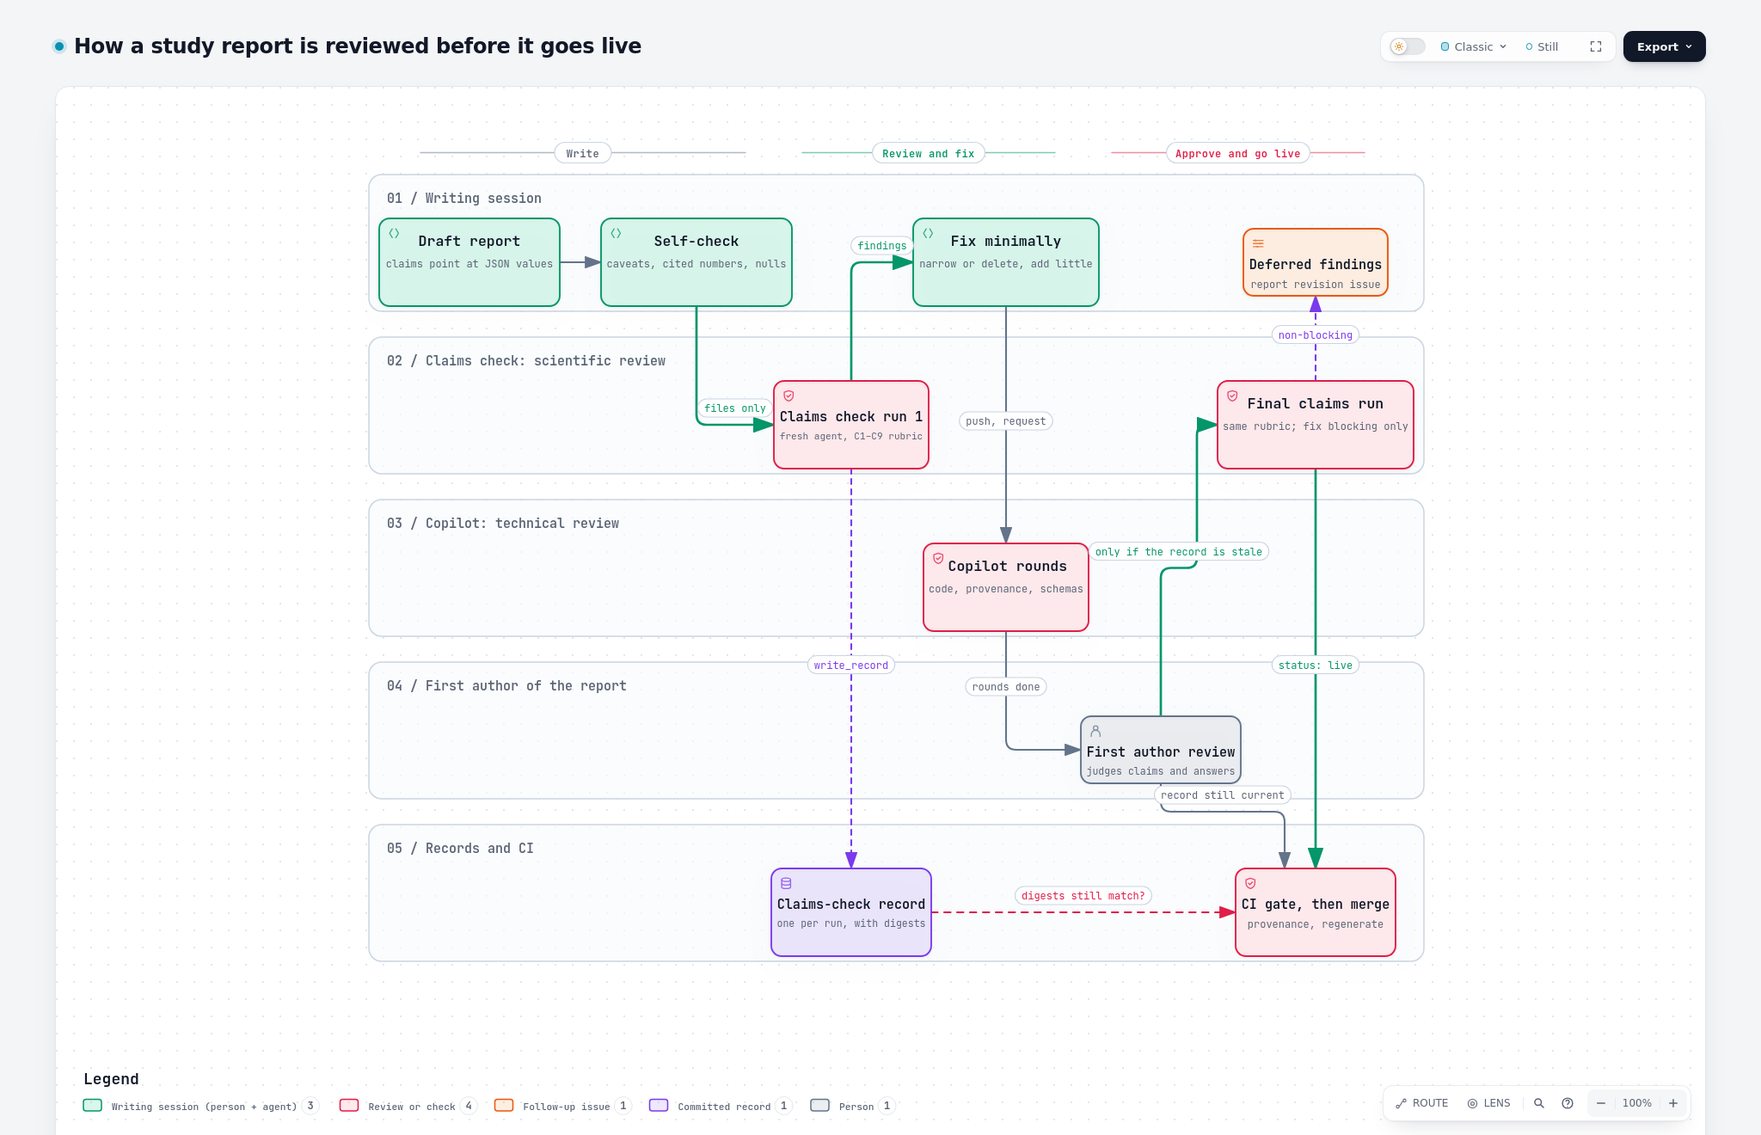
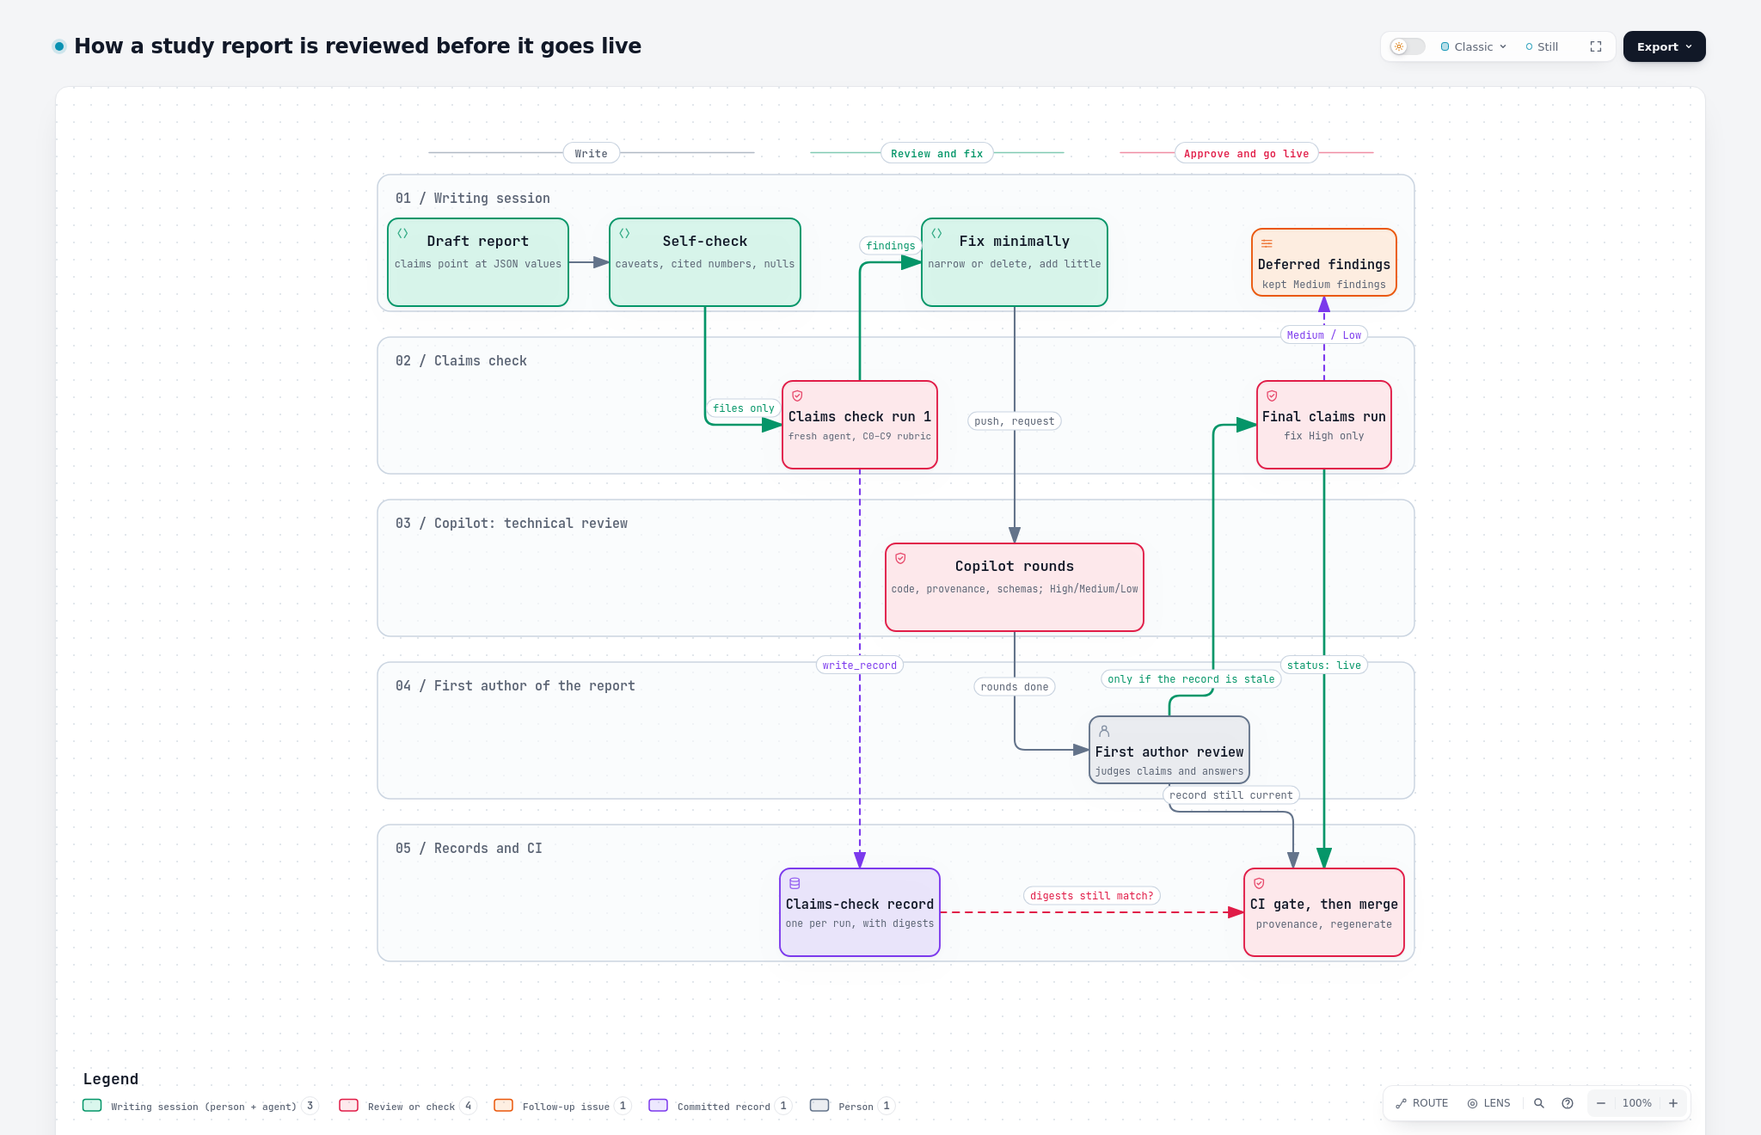
docs(diagrams): report review uses High/Medium/Low and C0-C9; lane renamed back to "Claims check"
Text only, layout unchanged; re-rendered with archify finalize (all gates
pass) and visual-check; smallest node text 7.4 px as before.

Refs AllenNeuralDynamics/aind-dynamic-foraging-bfm-studies#167

diff --git a/docs/diagrams/report-review.html b/docs/diagrams/report-review.html
@@ -5202,7 +5202,7 @@ OTHER DEALINGS IN THE FONT SOFTWARE.
     <!-- Main Diagram -->
     <div class="diagram-container" data-detail-level="read"
          data-preset-badge-editorial-plate="ARCHIFY / PLATE 04">
-      <svg viewBox="0 0 874 786" data-reader-fit="width-first" data-layout-contract="readable-v2" role="img" lang="en" aria-labelledby="archify-diagram-title archify-diagram-description" data-animation="trace" data-preset="classic" data-quality-profile="showcase" data-node-ui="">
+      <svg viewBox="0 0 860 786" data-reader-fit="width-first" data-layout-contract="readable-v2" role="img" lang="en" aria-labelledby="archify-diagram-title archify-diagram-description" data-animation="trace" data-preset="classic" data-quality-profile="showcase" data-node-ui="">
         <title id="archify-diagram-title">How a study report is reviewed before it goes live</title>
         <desc id="archify-diagram-description">A workflow diagram generated by Archify.</desc>
         <!-- Definitions -->
@@ -5249,19 +5249,19 @@ OTHER DEALINGS IN THE FONT SOFTWARE.
         <rect width="100%" height="100%" fill="url(#grid)" />
 
         <!-- Swimlanes -->
-        <rect data-graph-role="structural-frame" data-composition-frame-kind="lane" data-composition-frame-id="lane-0" x="40" y="52" width="818" height="106" rx="10" class="c-lane" stroke-width="1"/>
+        <rect data-graph-role="structural-frame" data-composition-frame-kind="lane" data-composition-frame-id="lane-0" x="40" y="52" width="804" height="106" rx="10" class="c-lane" stroke-width="1"/>
         <text x="54" y="74" class="t-muted" font-size="10" font-weight="600">01 / Writing session</text>
 
-        <rect data-graph-role="structural-frame" data-composition-frame-kind="lane" data-composition-frame-id="lane-1" x="40" y="178" width="818" height="106" rx="10" class="c-lane" stroke-width="1"/>
-        <text x="54" y="200" class="t-muted" font-size="10" font-weight="600">02 / Claims check: scientific review</text>
+        <rect data-graph-role="structural-frame" data-composition-frame-kind="lane" data-composition-frame-id="lane-1" x="40" y="178" width="804" height="106" rx="10" class="c-lane" stroke-width="1"/>
+        <text x="54" y="200" class="t-muted" font-size="10" font-weight="600">02 / Claims check</text>
 
-        <rect data-graph-role="structural-frame" data-composition-frame-kind="lane" data-composition-frame-id="lane-2" x="40" y="304" width="818" height="106" rx="10" class="c-lane" stroke-width="1"/>
+        <rect data-graph-role="structural-frame" data-composition-frame-kind="lane" data-composition-frame-id="lane-2" x="40" y="304" width="804" height="106" rx="10" class="c-lane" stroke-width="1"/>
         <text x="54" y="326" class="t-muted" font-size="10" font-weight="600">03 / Copilot: technical review</text>
 
-        <rect data-graph-role="structural-frame" data-composition-frame-kind="lane" data-composition-frame-id="lane-3" x="40" y="430" width="818" height="106" rx="10" class="c-lane" stroke-width="1"/>
+        <rect data-graph-role="structural-frame" data-composition-frame-kind="lane" data-composition-frame-id="lane-3" x="40" y="430" width="804" height="106" rx="10" class="c-lane" stroke-width="1"/>
         <text x="54" y="452" class="t-muted" font-size="10" font-weight="600">04 / First author of the report</text>
 
-        <rect data-graph-role="structural-frame" data-composition-frame-kind="lane" data-composition-frame-id="lane-4" x="40" y="556" width="818" height="106" rx="10" class="c-lane" stroke-width="1"/>
+        <rect data-graph-role="structural-frame" data-composition-frame-kind="lane" data-composition-frame-id="lane-4" x="40" y="556" width="804" height="106" rx="10" class="c-lane" stroke-width="1"/>
         <text x="54" y="578" class="t-muted" font-size="10" font-weight="600">05 / Records and CI</text>
 
         <!-- Phase headers -->
@@ -5279,11 +5279,11 @@ OTHER DEALINGS IN THE FONT SOFTWARE.
 
 
         <!-- Edge paths -->
-        <path data-edge-from="author" data-edge-to="final" data-edge-label="only if the record is stale" data-edge-key="0" data-edge-id="e-author-final" data-composition-routing="workflow-v2-auto" data-edge-role="" data-composition-points="654,472;654,357;682,357;682,246;698,246" d="M 654 472 L 654 365 Q 654 357 662 357 L 674 357 Q 682 357 682 349 L 682 254 Q 682 246 690 246 L 698 246" class="a-emphasis" data-animate="edge" style="--step:5" stroke-width="1.8" marker-end="url(#arrowhead-emphasis)"/>
+        <path data-edge-from="author" data-edge-to="final" data-edge-label="only if the record is stale" data-edge-key="0" data-edge-id="e-author-final" data-composition-routing="workflow-v2-auto" data-edge-role="" data-composition-points="654,472;654,456;688,456;688,246;722,246" d="M 654 472 L 654 464 Q 654 456 662 456 L 680 456 Q 688 456 688 448 L 688 254 Q 688 246 696 246 L 722 246" class="a-emphasis" data-animate="edge" style="--step:5" stroke-width="1.8" marker-end="url(#arrowhead-emphasis)"/>
         <path data-edge-from="author" data-edge-to="merge" data-edge-label="record still current" data-edge-key="1" data-edge-id="e-author-merge" data-composition-routing="workflow-v2-auto" data-edge-role="branch" data-composition-points="654,524;654,546;750,546;750,590" d="M 654 524 L 654 538 Q 654 546 662 546 L 742 546 Q 750 546 750 554 L 750 590" class="a-default" data-animate="edge" style="--step:9" stroke-width="1.4" marker-end="url(#arrowhead)"/>
         <path data-edge-from="copilot" data-edge-to="author" data-edge-label="rounds done" data-edge-key="2" data-edge-id="e-copilot-author" data-composition-routing="workflow-v2-auto" data-edge-role="" data-composition-points="534,406;534,498;592,498" d="M 534 406 L 534 490 Q 534 498 542 498 L 592 498" class="a-default" data-animate="edge" style="--step:4" stroke-width="1.4" marker-end="url(#arrowhead)"/>
         <path data-edge-from="draft" data-edge-to="selfcheck" data-edge-key="3" data-edge-id="e-draft-self" data-composition-routing="workflow-v2-auto" data-edge-role="" data-composition-points="188,120;220,120" d="M 188 120 L 220 120" class="a-default" data-animate="edge" style="--step:0" stroke-width="1.4" marker-end="url(#arrowhead)"/>
-        <path data-edge-from="final" data-edge-to="deferred" data-edge-label="non-blocking" data-edge-key="4" data-edge-id="e-final-deferred" data-composition-routing="workflow-v2-auto" data-edge-role="branch" data-composition-points="774,212;774,146" d="M 774 212 L 774 146" class="a-dashed" data-animate="edge" style="--step:12" stroke-width="1.4" marker-end="url(#arrowhead-dashed)"/>
+        <path data-edge-from="final" data-edge-to="deferred" data-edge-label="Medium / Low" data-edge-key="4" data-edge-id="e-final-deferred" data-composition-routing="workflow-v2-auto" data-edge-role="branch" data-composition-points="774,212;774,146" d="M 774 212 L 774 146" class="a-dashed" data-animate="edge" style="--step:12" stroke-width="1.4" marker-end="url(#arrowhead-dashed)"/>
         <path data-edge-from="final" data-edge-to="merge" data-edge-label="status: live" data-edge-key="5" data-edge-id="e-final-merge" data-composition-routing="workflow-v2-auto" data-edge-role="" data-composition-points="774,280;774,590" d="M 774 280 L 774 590" class="a-emphasis" data-animate="edge" style="--step:6" stroke-width="1.8" marker-end="url(#arrowhead-emphasis)"/>
         <path data-edge-from="fix" data-edge-to="copilot" data-edge-label="push, request" data-edge-key="6" data-edge-id="e-fix-copilot" data-composition-routing="workflow-v2-auto" data-edge-role="" data-composition-points="534,154;534,338" d="M 534 154 L 534 338" class="a-default" data-animate="edge" style="--step:3" stroke-width="1.4" marker-end="url(#arrowhead)"/>
         <path data-edge-from="record" data-edge-to="merge" data-edge-label="digests still match?" data-edge-key="7" data-edge-id="e-record-merge" data-composition-routing="workflow-v2-auto" data-edge-role="" data-composition-points="476,624;712,624" d="M 476 624 L 712 624" class="a-security" data-animate="edge" style="--step:12" stroke-width="1.4" marker-end="url(#arrowhead-security)"/>
@@ -5328,8 +5328,8 @@ OTHER DEALINGS IN THE FONT SOFTWARE.
         <text data-detail="fine" x="534" y="142" class="t-backend" font-size="7" text-anchor="middle">answer every finding</text>
         </g>
 
-        <g id="node-deferred" data-node-id="deferred" data-node-label="Deferred findings" tabindex="0" role="button" aria-label="Focus Deferred findings, report revision issue, Writing session › Approve and go live" aria-pressed="false" data-node-kind="messagebus" data-node-sublabel="report revision issue" data-node-context="Writing session › Approve and go live">
-          <title>Deferred findings · report revision issue · Writing session › Approve and go live</title>
+        <g id="node-deferred" data-node-id="deferred" data-node-label="Deferred findings" tabindex="0" role="button" aria-label="Focus Deferred findings, kept Medium findings, Writing session › Approve and go live" aria-pressed="false" data-node-kind="messagebus" data-node-sublabel="kept Medium findings" data-node-context="Writing session › Approve and go live">
+          <title>Deferred findings · kept Medium findings · Writing session › Approve and go live</title>
           <rect x="718" y="94" width="112" height="52" rx="8" class="c-mask"/>
           <rect x="718" y="94" width="112" height="52" rx="8" class="c-messagebus" data-animate="node" style="--step:11" stroke-width="1.5"/>
           <g aria-hidden="true" data-semantic-sigil="messagebus" class="semantic-sigil s-messagebus" transform="translate(724 100) scale(0.6875)">
@@ -5339,11 +5339,11 @@ OTHER DEALINGS IN THE FONT SOFTWARE.
             <circle cx="7" cy="11.5" r="1" class="sigil-fill"/>
           </g>
           <text data-node-label="" data-detail-anchor="" x="774" y="125.2" class="t-primary" font-size="10.1" font-weight="600" text-anchor="middle">Deferred findings</text>
-          <text data-detail="context" x="774" y="139.9" class="t-muted" font-size="8" text-anchor="middle">report revision issue</text>
+          <text data-detail="context" x="774" y="139.9" class="t-muted" font-size="8" text-anchor="middle">kept Medium findings</text>
         </g>
 
-        <g id="node-run1" data-node-id="run1" data-node-label="Claims check run 1" tabindex="0" role="button" aria-label="Focus Claims check run 1, fresh agent, C1–C9 rubric, Claims check: scientific review › Review and fix" aria-pressed="false" data-node-kind="security" data-node-sublabel="fresh agent, C1–C9 rubric" data-node-tag="read-only, files only" data-node-context="Claims check: scientific review › Review and fix">
-          <title>Claims check run 1 · fresh agent, C1–C9 rubric · Claims check: scientific review › Review and fix · read-only, files only</title>
+        <g id="node-run1" data-node-id="run1" data-node-label="Claims check run 1" tabindex="0" role="button" aria-label="Focus Claims check run 1, fresh agent, C0–C9 rubric, Claims check › Review and fix" aria-pressed="false" data-node-kind="security" data-node-sublabel="fresh agent, C0–C9 rubric" data-node-tag="read-only, files only" data-node-context="Claims check › Review and fix">
+          <title>Claims check run 1 · fresh agent, C0–C9 rubric · Claims check › Review and fix · read-only, files only</title>
           <rect x="354" y="212" width="120" height="68" rx="8" class="c-mask"/>
           <rect x="354" y="212" width="120" height="68" rx="8" class="c-security" data-animate="node" style="--step:2" stroke-width="1.5"/>
           <g aria-hidden="true" data-semantic-sigil="security" class="semantic-sigil s-security" transform="translate(360 218) scale(0.6875)">
@@ -5351,33 +5351,33 @@ OTHER DEALINGS IN THE FONT SOFTWARE.
             <path d="m5.8 8 1.5 1.5 3-3"/>
           </g>
           <text data-node-label="" data-detail-anchor="" x="414" y="243.4" class="t-primary" font-size="10.3" font-weight="600" text-anchor="middle">Claims check run 1</text>
-          <text data-detail="context" x="414" y="257.4" class="t-muted" font-size="7.4" text-anchor="middle">fresh agent, C1–C9 rubric</text>
+          <text data-detail="context" x="414" y="257.4" class="t-muted" font-size="7.4" text-anchor="middle">fresh agent, C0–C9 rubric</text>
         <text data-detail="fine" x="414" y="270.1" class="t-security" font-size="7" text-anchor="middle">read-only, files only</text>
         </g>
 
-        <g id="node-final" data-node-id="final" data-node-label="Final claims run" tabindex="0" role="button" aria-label="Focus Final claims run, same rubric; fix blocking only, Claims check: scientific review › Approve and go live" aria-pressed="false" data-node-kind="security" data-node-sublabel="same rubric; fix blocking only" data-node-tag="+1 run after a blocking fix" data-node-context="Claims check: scientific review › Approve and go live">
-          <title>Final claims run · same rubric; fix blocking only · Claims check: scientific review › Approve and go live · +1 run after a blocking fix</title>
-          <rect x="698" y="212" width="152" height="68" rx="8" class="c-mask"/>
-          <rect x="698" y="212" width="152" height="68" rx="8" class="c-security" data-animate="node" style="--step:6" stroke-width="1.5"/>
-          <g aria-hidden="true" data-semantic-sigil="security" class="semantic-sigil s-security" transform="translate(704 218) scale(0.6875)">
+        <g id="node-final" data-node-id="final" data-node-label="Final claims run" tabindex="0" role="button" aria-label="Focus Final claims run, fix High only, Claims check › Approve and go live" aria-pressed="false" data-node-kind="security" data-node-sublabel="fix High only" data-node-tag="+1 run after a High fix" data-node-context="Claims check › Approve and go live">
+          <title>Final claims run · fix High only · Claims check › Approve and go live · +1 run after a High fix</title>
+          <rect x="722" y="212" width="104" height="68" rx="8" class="c-mask"/>
+          <rect x="722" y="212" width="104" height="68" rx="8" class="c-security" data-animate="node" style="--step:6" stroke-width="1.5"/>
+          <g aria-hidden="true" data-semantic-sigil="security" class="semantic-sigil s-security" transform="translate(728 218) scale(0.6875)">
             <path d="M8 2.2 13 4v3.5c0 3.1-1.8 5.4-5 6.5-3.2-1.1-5-3.4-5-6.5V4Z"/>
             <path d="m5.8 8 1.5 1.5 3-3"/>
           </g>
-          <text data-node-label="" data-detail-anchor="" x="774" y="233" class="t-primary" font-size="11" font-weight="600" text-anchor="middle">Final claims run</text>
-          <text data-detail="context" x="774" y="250" class="t-muted" font-size="8" text-anchor="middle">same rubric; fix blocking only</text>
-        <text data-detail="fine" x="774" y="268" class="t-security" font-size="7" text-anchor="middle">+1 run after a blocking fix</text>
+          <text data-node-label="" data-detail-anchor="" x="774" y="243" class="t-primary" font-size="10" font-weight="600" text-anchor="middle">Final claims run</text>
+          <text data-detail="context" x="774" y="257.6" class="t-muted" font-size="8" text-anchor="middle">fix High only</text>
+        <text data-detail="fine" x="774" y="270.3" class="t-security" font-size="6.9" text-anchor="middle">+1 run after a High fix</text>
         </g>
 
-        <g id="node-copilot" data-node-id="copilot" data-node-label="Copilot rounds" tabindex="0" role="button" aria-label="Focus Copilot rounds, code, provenance, schemas, Copilot: technical review › Review and fix" aria-pressed="false" data-node-kind="security" data-node-sublabel="code, provenance, schemas" data-node-tag="at most 4 rounds" data-node-context="Copilot: technical review › Review and fix">
-          <title>Copilot rounds · code, provenance, schemas · Copilot: technical review › Review and fix · at most 4 rounds</title>
-          <rect x="470" y="338" width="128" height="68" rx="8" class="c-mask"/>
-          <rect x="470" y="338" width="128" height="68" rx="8" class="c-security" data-animate="node" style="--step:4" stroke-width="1.5"/>
-          <g aria-hidden="true" data-semantic-sigil="security" class="semantic-sigil s-security" transform="translate(476 344) scale(0.6875)">
+        <g id="node-copilot" data-node-id="copilot" data-node-label="Copilot rounds" tabindex="0" role="button" aria-label="Focus Copilot rounds, code, provenance, schemas; High/Medium/Low, Copilot: technical review › Review and fix" aria-pressed="false" data-node-kind="security" data-node-sublabel="code, provenance, schemas; High/Medium/Low" data-node-tag="at most 4 rounds" data-node-context="Copilot: technical review › Review and fix">
+          <title>Copilot rounds · code, provenance, schemas; High/Medium/Low · Copilot: technical review › Review and fix · at most 4 rounds</title>
+          <rect x="434" y="338" width="200" height="68" rx="8" class="c-mask"/>
+          <rect x="434" y="338" width="200" height="68" rx="8" class="c-security" data-animate="node" style="--step:4" stroke-width="1.5"/>
+          <g aria-hidden="true" data-semantic-sigil="security" class="semantic-sigil s-security" transform="translate(440 344) scale(0.6875)">
             <path d="M8 2.2 13 4v3.5c0 3.1-1.8 5.4-5 6.5-3.2-1.1-5-3.4-5-6.5V4Z"/>
             <path d="m5.8 8 1.5 1.5 3-3"/>
           </g>
-          <text data-node-label="" data-detail-anchor="" x="535.2" y="359" class="t-primary" font-size="11" font-weight="600" text-anchor="middle">Copilot rounds</text>
-          <text data-detail="context" x="534" y="376" class="t-muted" font-size="8" text-anchor="middle">code, provenance, schemas</text>
+          <text data-node-label="" data-detail-anchor="" x="534" y="359" class="t-primary" font-size="11" font-weight="600" text-anchor="middle">Copilot rounds</text>
+          <text data-detail="context" x="534" y="376" class="t-muted" font-size="7.6" text-anchor="middle">code, provenance, schemas; High/Medium/Low</text>
         <text data-detail="fine" x="534" y="394" class="t-security" font-size="7" text-anchor="middle">at most 4 rounds</text>
         </g>
 
@@ -5420,8 +5420,8 @@ OTHER DEALINGS IN THE FONT SOFTWARE.
 
         <!-- Edge labels -->
         <g data-detail="context" data-edge-from="author" data-edge-to="final" data-edge-label="only if the record is stale" data-edge-key="0" data-edge-id="e-author-final">
-          <rect x="598.2" y="337" width="139.6" height="14" rx="3" class="c-mask"/>
-          <text x="668" y="347" class="t-edge-emphasis" font-size="8" text-anchor="middle">only if the record is stale</text>
+          <rect x="601.2" y="436" width="139.6" height="14" rx="3" class="c-mask"/>
+          <text x="671" y="446" class="t-edge-emphasis" font-size="8" text-anchor="middle">only if the record is stale</text>
         </g>
         <g data-detail="context" data-edge-from="author" data-edge-to="merge" data-edge-label="record still current" data-edge-key="1" data-edge-id="e-author-merge">
           <rect x="649" y="526" width="106" height="14" rx="3" class="c-mask"/>
@@ -5432,9 +5432,9 @@ OTHER DEALINGS IN THE FONT SOFTWARE.
           <text x="534" y="452" class="t-muted" font-size="8" text-anchor="middle">rounds done</text>
         </g>
 
-        <g data-detail="context" data-edge-from="final" data-edge-to="deferred" data-edge-label="non-blocking" data-edge-key="4" data-edge-id="e-final-deferred">
+        <g data-detail="context" data-edge-from="final" data-edge-to="deferred" data-edge-label="Medium / Low" data-edge-key="4" data-edge-id="e-final-deferred">
           <rect x="740.2" y="169" width="67.6" height="14" rx="3" class="c-mask"/>
-          <text x="774" y="179" class="t-edge-dashed" font-size="8" text-anchor="middle">non-blocking</text>
+          <text x="774" y="179" class="t-edge-dashed" font-size="8" text-anchor="middle">Medium / Low</text>
         </g>
         <g data-detail="context" data-edge-from="final" data-edge-to="merge" data-edge-label="status: live" data-edge-key="5" data-edge-id="e-final-merge">
           <rect x="740.2" y="425" width="67.6" height="14" rx="3" class="c-mask"/>
@@ -5668,7 +5668,7 @@ OTHER DEALINGS IN THE FONT SOFTWARE.
           <h3>Two reviewers, two jobs</h3>
         </div>
         <ul>
-          <li>Claims check follows the claims-check rubric: claims vs numbers and figures (C1–C2), prose numbers (C3), stale text (C4), caveats (C5), estimands (C6), uncertainty (C7), claim changes (C8), fixed verdicts (C9)</li>
+          <li>Claims check follows the claims-check rubric: value traced to its producer line (C0, first), claims vs numbers and figures (C1–C2), prose numbers (C3), stale text (C4), caveats (C5), estimands (C6), uncertainty (C7), claim changes (C8), fixed verdicts (C9)</li>
           <li>Copilot: code, reproducibility, provenance, schemas; never rewords a claim</li>
           <li>Copilot finishes before the final claims run</li>
         </ul>
@@ -5680,9 +5680,10 @@ OTHER DEALINGS IN THE FONT SOFTWARE.
           <h3>Stop rules</h3>
         </div>
         <ul>
-          <li>At most 3 claims runs per report version, +1 after a blocking fix</li>
-          <li>Blocking (the reviewer tags it): claim contradicted or overstated (C1/C2), wrong or unsourced number (C3), meaning-changing estimand (C6), verdict vs its table (C9)</li>
-          <li>Everything else is deferred, and the text stays as checked</li>
+          <li>At most 3 claims runs per report version, +1 after a High fix</li>
+          <li>High, Medium, Low: the claims check and Copilot use the same three severities</li>
+          <li>High must be fixed: value is not the claimed quantity (C0), claim contradicted or overstated (C1/C2), wrong or unsourced number (C3), meaning-changing estimand (C6), verdict vs its table (C9)</li>
+          <li>Medium: fixed, or kept by the first author for the next revision; Low may be closed with a reason. The text stays as checked</li>
         </ul>
       </div>
 
